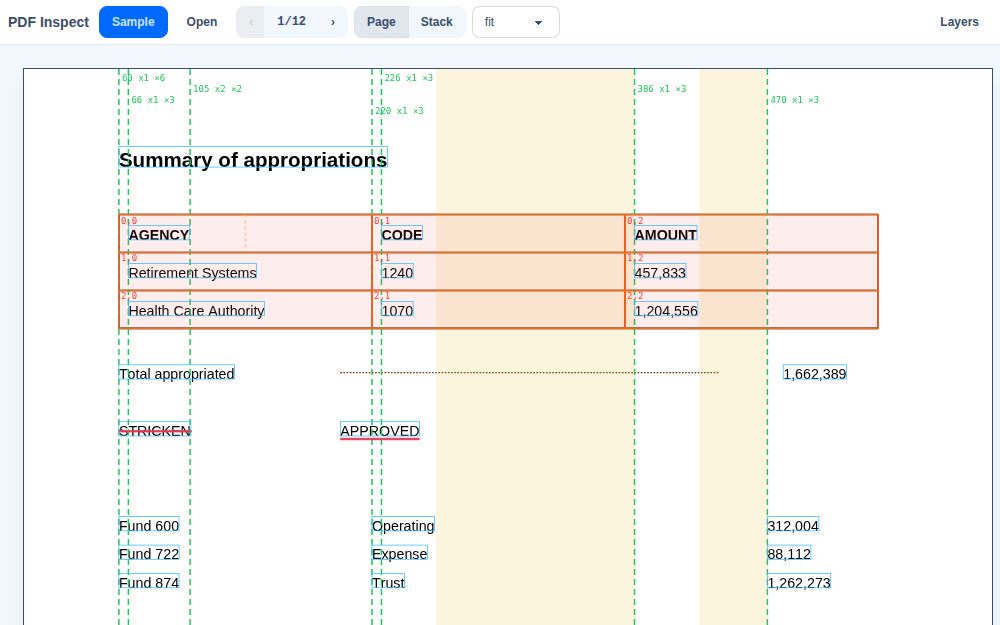
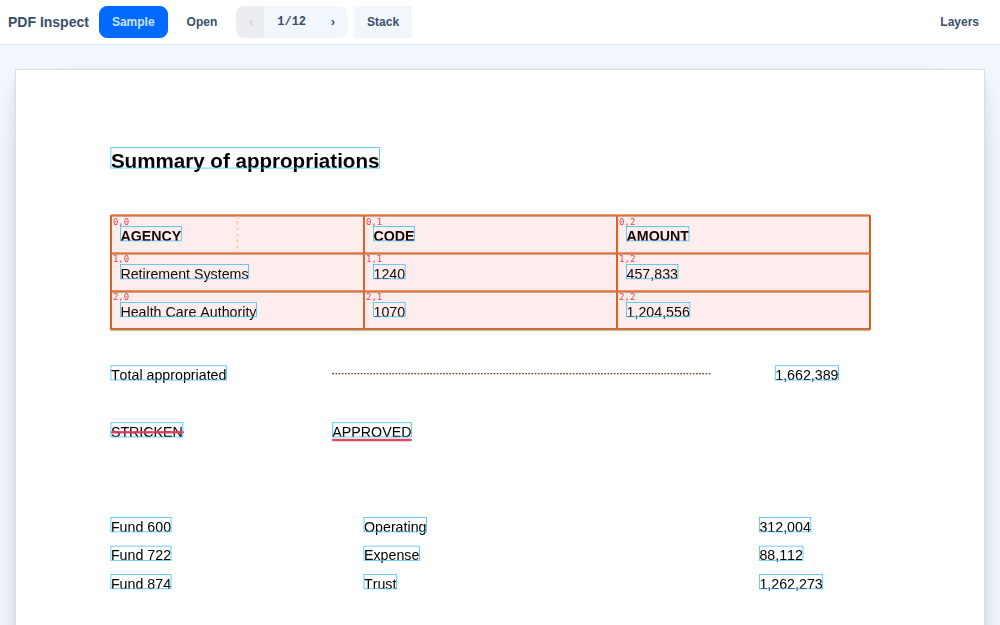
pdf-inspect: fix the toolbar overflow, give the page a real sheet, put the orientation on the canvas
Three things from a phone screenshot.

TOOLBAR. It held about 500px of content in a 390px bar, so it scrolled and the
sticky panel button painted its own background over the scale select. Fixed by
removing content rather than scrolling it: one mode button that names where you
are going instead of two that name where you are, and the zoom select moved into
the panel where the other view settings already live. Nothing squeezes now.

THE SHEET. A white rectangle on a near-white background behind a hairline ring
has no edge, which is why the page read as plain and unfinished. It is now a
sheet: a real border and a three-stop shadow that falls somewhere, centred in
its scroll area. Default layers also drop from six to three; six at once buries
the page under dashed lines, and columns and gutters are the two worth turning
on deliberately rather than finding already on.

ORIENTATION. The yaw and pitch readout was in a collapsed section of a panel
that has to be opened, which is not where you look while dragging something.
It is now a readout over the canvas itself, raised by any change from the orbit,
the sliders, or the presets, and retired 1.4s after the change stops. The panel
section is open by default too.

Orbit rates are now per axis: a full-width horizontal drag is 120 degrees of yaw
and a full-height vertical one is 90 of pitch. One shared rate made the vertical
axis feel twice as fast, because a phone canvas is much taller than it is wide.
[…]

diff --git a/pages/pdf-inspect.html b/pages/pdf-inspect.html
@@ -35,6 +35,29 @@
 <style>
   .layer { position: absolute; inset: 0; pointer-events: none; }
   .lbl { font: 9px/1 ui-monospace, monospace; }
+
+  /* A sheet of paper, not a div. The page was reading as unfinished because a
+     white rectangle on a near-white background with a hairline ring has no
+     edge to speak of: the eye needs a shadow that falls somewhere. */
+  .paper {
+    background: #fff;
+    border: 1px solid rgba(15, 23, 42, 0.14);
+    box-shadow:
+      0 1px 2px rgba(15, 23, 42, 0.06),
+      0 8px 18px -6px rgba(15, 23, 42, 0.18),
+      0 24px 48px -24px rgba(15, 23, 42, 0.22);
+  }
+
+  /* The orientation readout, over the stack. Present while the view is being
+     changed and for a moment after, then gone: the answer to "what am I looking
+     at" belongs where you are looking, not in a panel you have to open. */
+  .hud {
+    position: absolute; top: .5rem; left: 50%; transform: translateX(-50%);
+    pointer-events: none; transition: opacity .45s ease;
+    font: 12px/1 ui-monospace, monospace; letter-spacing: .02em;
+    padding: .4rem .7rem; border-radius: 999px;
+    background: rgba(15, 23, 42, .82); color: #fff; white-space: nowrap;
+  }
 </style>
 </head>
 <body class="bg-base-200 text-base-content overscroll-none">
@@ -43,7 +66,7 @@
 
   <!-- toolbar: one row at every width. Anything that cannot fit on a phone
        moves into the panel rather than wrapping into the layer list. -->
-  <div class="flex items-center gap-1.5 px-2 py-1.5 bg-base-100 border-b border-base-300 shrink-0 overflow-x-auto">
+  <div class="flex items-center gap-1.5 px-2 py-1.5 bg-base-100 border-b border-base-300 shrink-0">
     <span class="font-semibold text-sm pr-1 hidden sm:inline whitespace-nowrap">PDF Inspect</span>
     <button class="btn btn-sm lg:btn-xs btn-primary shrink-0" @click="loadSample()">Sample</button>
     <label class="btn btn-sm lg:btn-xs btn-ghost shrink-0">Open
@@ -55,33 +78,39 @@
             x-text="`${pageNum}/${numPages||'-'}`"></span>
       <button class="btn btn-sm lg:btn-xs join-item" @click="go(1)" :disabled="pageNum>=numPages">&rsaquo;</button>
     </div>
-    <div class="join shrink-0">
-      <button class="btn btn-sm lg:btn-xs join-item" :class="mode==='page' && 'btn-active'"
+    <div class="join shrink-0 hidden lg:flex">
+      <button class="btn btn-xs join-item" :class="mode==='page' && 'btn-active'"
               @click="mode='page'; redraw()">Page</button>
-      <button class="btn btn-sm lg:btn-xs join-item" :class="mode==='stack' && 'btn-active'"
+      <button class="btn btn-xs join-item" :class="mode==='stack' && 'btn-active'"
               @click="mode='stack'; redraw()">Stack</button>
     </div>
-    <select class="select select-sm lg:select-xs w-[5.5rem] lg:w-[4.5rem] shrink-0" x-show="mode==='page'" x-model="scaleMode" @change="redraw()">
+    <button class="btn btn-sm join-item lg:hidden shrink-0 gap-1"
+            @click="mode = mode === 'page' ? 'stack' : 'page'; redraw()">
+      <span x-text="mode === 'page' ? 'Stack' : 'Page'"></span>
+    </button>
+    <select class="select select-xs w-[4.5rem] shrink-0 hidden lg:block" x-show="mode==='page'" x-model="scaleMode" @change="redraw()">
       <option value="fit">fit</option>
       <option value="1">1x</option><option value="1.5">1.5x</option>
       <option value="2">2x</option><option value="3">3x</option>
     </select>
     <span class="text-xs opacity-60 font-mono truncate hidden lg:inline" x-text="status"></span>
-    <button class="btn btn-sm btn-ghost ml-auto lg:hidden gap-1 shrink-0 sticky right-0 bg-base-100" @click="panel = !panel">
+    <button class="btn btn-sm btn-ghost ml-auto lg:hidden gap-1 shrink-0" @click="panel = !panel">
       <span x-text="panel ? 'Close' : 'Layers'"></span>
     </button>
   </div>
 
   <div class="flex-1 flex min-h-0 relative overflow-hidden">
     <!-- page -->
-    <main class="flex-1 overflow-auto p-3 sm:p-6 bg-base-200 min-w-0" id="scroll">
-      <div x-show="mode==='stack'" class="w-full h-full flex items-center justify-center">
+    <main class="flex-1 overflow-auto p-3 sm:p-6 bg-base-200 min-w-0 flex flex-col items-center" id="scroll">
+      <div x-show="mode==='stack'" class="w-full h-full flex items-center justify-center relative">
         <canvas id="stack" class="max-w-full touch-none cursor-grab"
                 @pointerdown="orbitStart($event)" @pointermove="orbitMove($event)"
                 @pointerup="orbitEnd()" @pointercancel="orbitEnd()"></canvas>
+        <div class="hud" :style="`opacity:${hud ? 1 : 0}`"
+             x-text="`yaw ${Math.round(yaw)}°  ·  pitch ${Math.round(pitch)}°  ·  spread ${spread}`"></div>
       </div>
       <div x-show="mode==='page'"
-           class="relative inline-block shadow-lg ring-1 ring-base-300 select-none touch-none" id="stage"
+           class="paper relative inline-block select-none touch-none shrink-0" id="stage"
            @pointerdown="dragStart($event)" @pointermove="dragMove($event)"
            @pointerup="dragEnd($event)" @pointercancel="dragEnd($event)">
         <canvas id="page" class="block"></canvas>
@@ -102,6 +131,14 @@
            :class="panel && '!translate-x-0 shadow-2xl'">
     <div class="p-3 space-y-1" x-show="mode==='page'">
       <div class="text-sm font-mono opacity-60 mb-2 lg:hidden" x-text="status"></div>
+      <label class="flex items-center gap-3 text-sm py-1 lg:hidden">
+        <span class="w-16 opacity-70 shrink-0">zoom</span>
+        <select class="select select-sm flex-1" x-model="scaleMode" @change="redraw()">
+          <option value="fit">fit to width</option>
+          <option value="1">1x</option><option value="1.5">1.5x</option>
+          <option value="2">2x</option><option value="3">3x</option>
+        </select>
+      </label>
       <div class="text-sm lg:text-xs uppercase tracking-wider opacity-50 mb-2">Layers</div>
       <template x-for="l in layerList" :key="l.key">
         <label class="flex items-center gap-3 lg:gap-2 cursor-pointer py-1.5 lg:py-0.5">
@@ -129,13 +166,13 @@
           <label class="flex items-center gap-3 lg:gap-2 text-sm lg:text-xs py-1 lg:py-0">
             <span class="w-16 lg:w-14 opacity-70 shrink-0">yaw</span>
             <input type="range" class="range range-sm lg:range-xs flex-1" min="-180" max="180" step="1"
-                   x-model.number="yaw" @input="drawStack()">
+                   x-model.number="yaw" @input="flashHud(); drawStack()">
             <span class="w-12 lg:w-10 text-right font-mono shrink-0" x-text="Math.round(yaw)"></span>
           </label>
           <label class="flex items-center gap-3 lg:gap-2 text-sm lg:text-xs py-1 lg:py-0">
             <span class="w-16 lg:w-14 opacity-70 shrink-0">pitch</span>
             <input type="range" class="range range-sm lg:range-xs flex-1" min="-85" max="85" step="1"
-                   x-model.number="pitch" @input="drawStack()">
+                   x-model.number="pitch" @input="flashHud(); drawStack()">
             <span class="w-12 lg:w-10 text-right font-mono shrink-0" x-text="Math.round(pitch)"></span>
           </label>
           <p class="text-sm lg:text-xs opacity-60 leading-snug">
@@ -161,7 +198,7 @@
       <label class="flex items-center gap-3 lg:gap-2 text-sm lg:text-xs py-1 lg:py-0">
         <span class="w-16 lg:w-14 opacity-70 shrink-0">spread</span>
         <input type="range" class="range range-sm lg:range-xs flex-1" min="4" max="70" step="1"
-               x-model.number="spread" @input="drawStack()">
+               x-model.number="spread" @input="flashHud(); drawStack()">
         <span class="w-12 lg:w-10 text-right font-mono shrink-0" x-text="spread"></span>
       </label>
       <label class="flex items-center gap-3 lg:gap-2 text-sm lg:text-xs cursor-pointer py-1 lg:py-0">
@@ -246,11 +283,11 @@ const S = { doc: null, v: null, items: [], projected: [] };
 document.addEventListener('alpine:init', () => Alpine.data('pdfInspect', () => ({
   pageNum: 1, numPages: 0, scaleMode: 'fit', scale: 1.5, panel: false,
   mode: 'page', yaw: -32, pitch: 26, spread: 26, trimMode: 'keep', onlyFixed: false,
-  viewOpen: false,
+  viewOpen: true, hud: false, _hudTimer: null,
   trim: { x1: 0, x2: 612, y1: 0, y2: 792, pageFrom: 1, pageTo: 1 },
   trimFields: [], trimInfo: '', furniture: [],
   W: 0, H: 0, status: 'no document', layerList: LAYERS,
-  layers: { items: true, glyphs: false, rules: true, columns: true, gutters: true, cells: true },
+  layers: { items: true, glyphs: false, rules: true, columns: false, gutters: false, cells: true },
   counts: {}, sel: [], selMode: 'contain', selInfo: '', drag: null, dragStyle: '',
   matrix: [], tableInfo: '',
 
@@ -609,11 +646,20 @@ document.addEventListener('alpine:init', () => Alpine.data('pdfInspect', () => (
     this.status = `${N} pages · ${S.doc.items.length} items`;
   },
 
+  // Any change to the view raises the readout and schedules its retirement.
+  // Called from the orbit, the sliders, and the presets alike, so the feedback
+  // does not depend on which control you reached for.
+  flashHud() {
+    this.hud = true;
+    clearTimeout(this._hudTimer);
+    this._hudTimer = setTimeout(() => { this.hud = false; }, 1400);
+  },
+
   // Named orientations, because a slider is precise and a preset is fast, and
   // wanting "straight on" should not mean dragging back to zero.
   viewPreset(name) {
     const p = { front: [0, 0], iso: [-32, 26], side: [-78, 8], top: [-14, 72] }[name];
-    if (p) { this.yaw = p[0]; this.pitch = p[1]; this.drawStack(); }
+    if (p) { this.yaw = p[0]; this.pitch = p[1]; this.flashHud(); this.drawStack(); }
   },
 
   // Turn the detector's output into a proposed cut, which is the point of
@@ -642,18 +688,23 @@ document.addEventListener('alpine:init', () => Alpine.data('pdfInspect', () => (
     // dismiss and take the pointer away mid-orbit. Capture plus preventDefault
     // keeps it here; the View sliders exist for where that is not enough.
     e.preventDefault();
+    this.flashHud();
     this._orbit = { x: e.clientX, y: e.clientY, yaw: this.yaw, pitch: this.pitch };
     e.currentTarget.setPointerCapture?.(e.pointerId);
   },
   orbitMove(e) {
     if (!this._orbit) return;
-    // Normalize by canvas width so a drag across the view turns the same amount
-    // on a phone as on a desktop, instead of being twice as twitchy on the
-    // smaller one.
+    // Normalized per axis, so a drag across the canvas turns the same amount on
+    // a phone as on a desktop. The rates are deliberately unequal: a full-width
+    // horizontal drag is 120 degrees of yaw, a full-height vertical one is 90 of
+    // pitch, and a shared rate made the vertical axis feel twice as fast because
+    // the canvas is taller than it is wide on a phone.
     const rect = e.currentTarget.getBoundingClientRect();
-    const k = 180 / Math.max(240, rect.width);
-    this.yaw = this._orbit.yaw + (e.clientX - this._orbit.x) * k;
-    this.pitch = Math.max(-85, Math.min(85, this._orbit.pitch - (e.clientY - this._orbit.y) * k));
+    const kx = 120 / Math.max(240, rect.width);
+    const ky = 90 / Math.max(240, rect.height);
+    this.yaw = this._orbit.yaw + (e.clientX - this._orbit.x) * kx;
+    this.pitch = Math.max(-85, Math.min(85, this._orbit.pitch - (e.clientY - this._orbit.y) * ky));
+    this.flashHud();
     this.drawStack();
   },
   orbitEnd() { this._orbit = null; },
